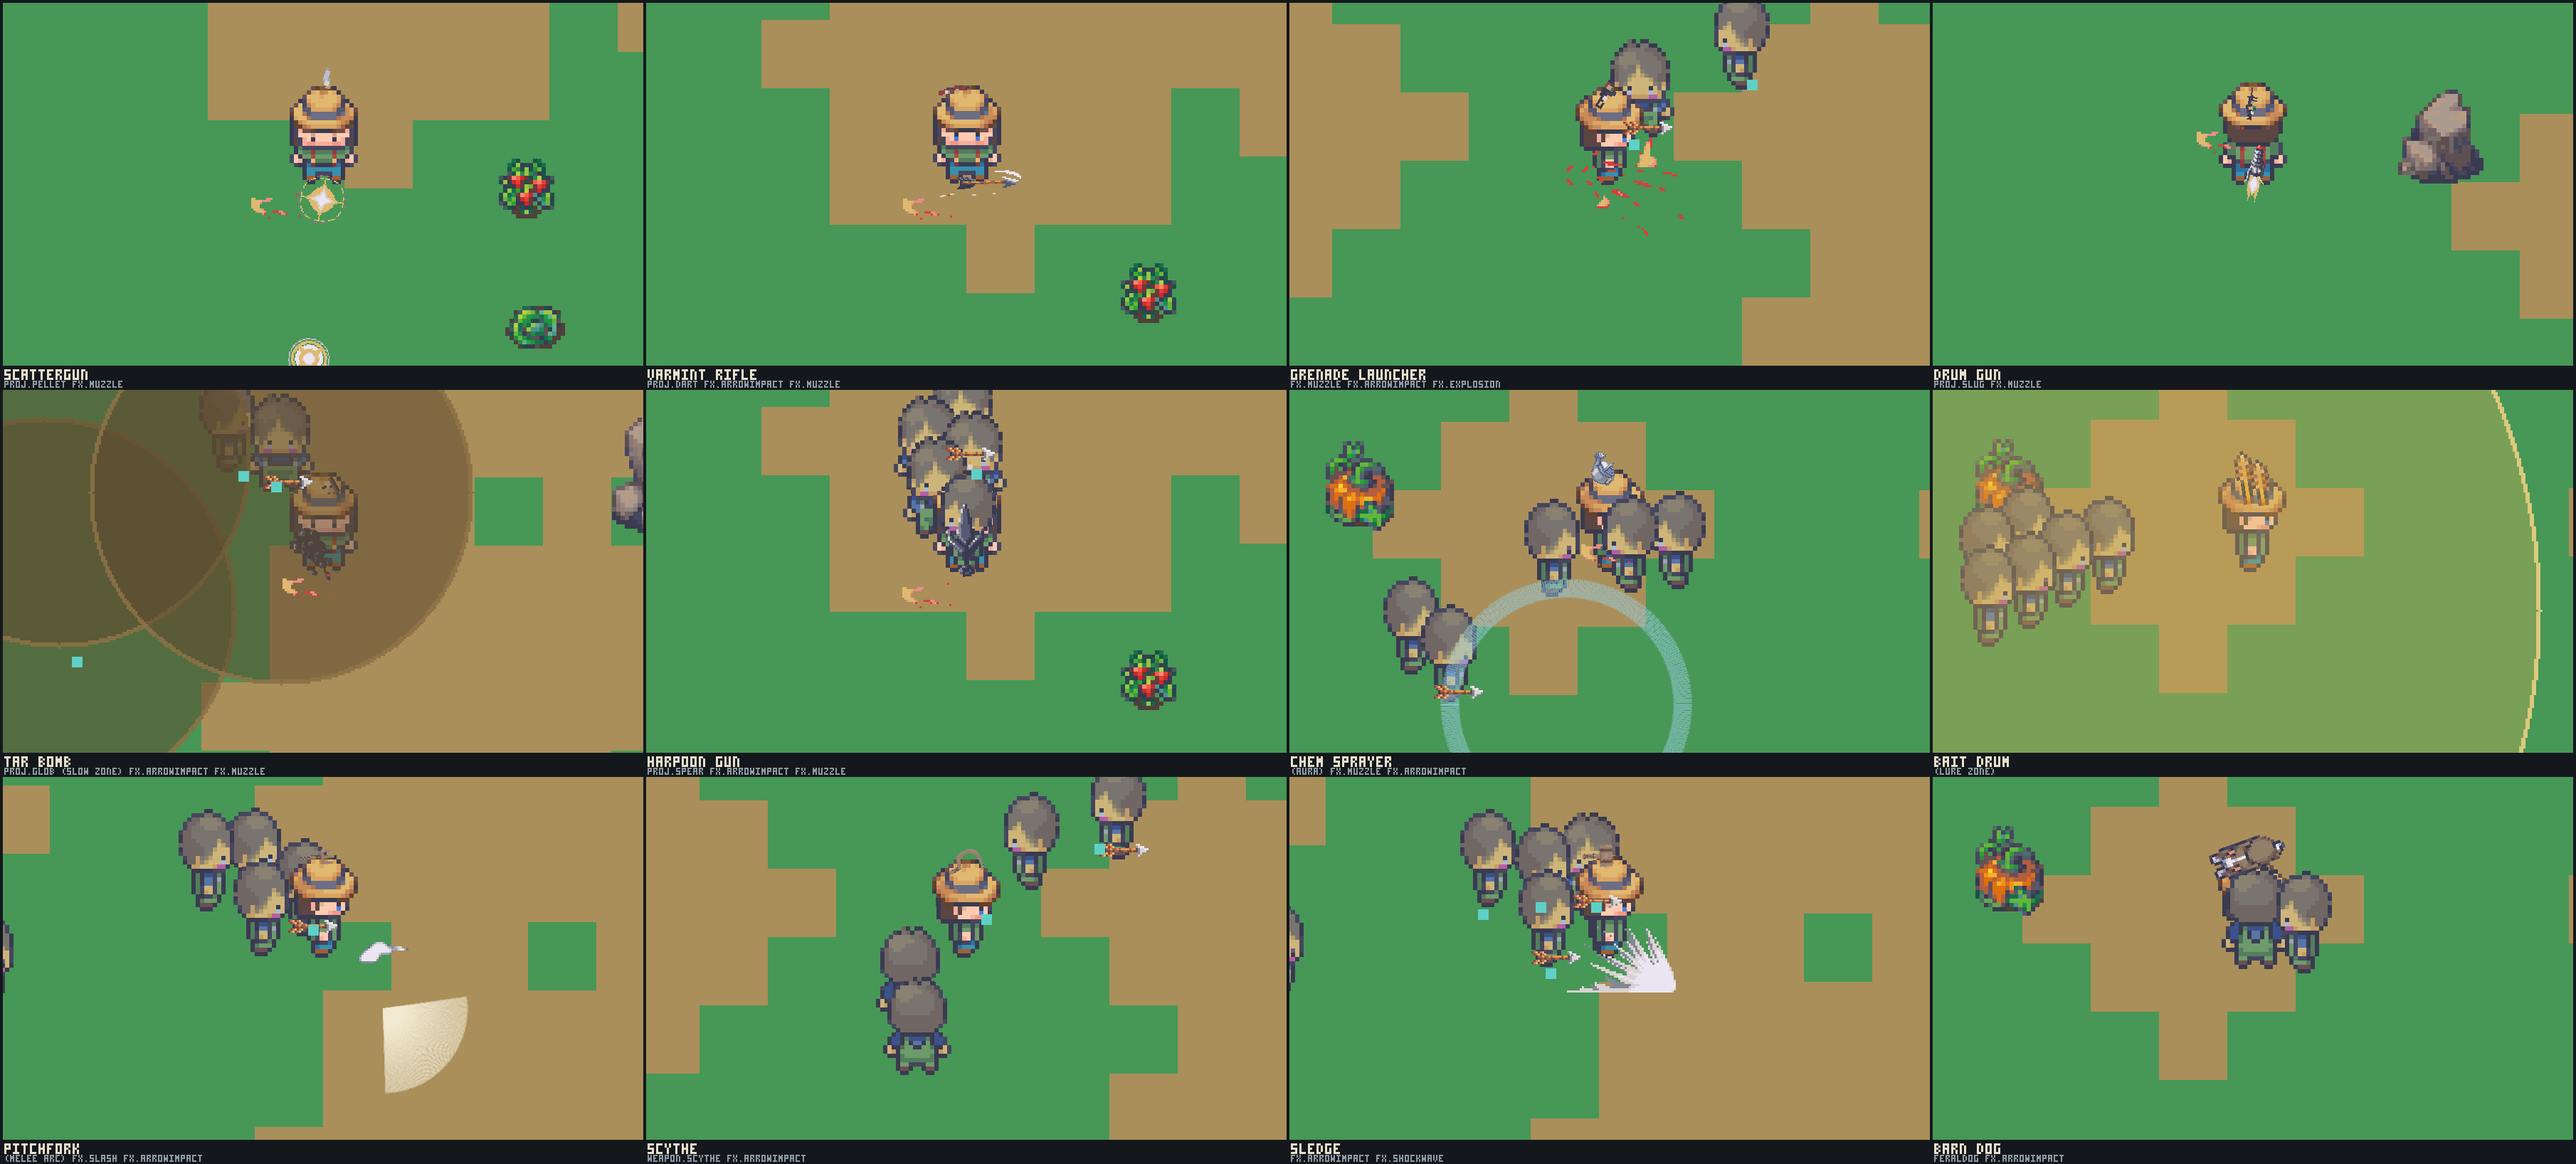
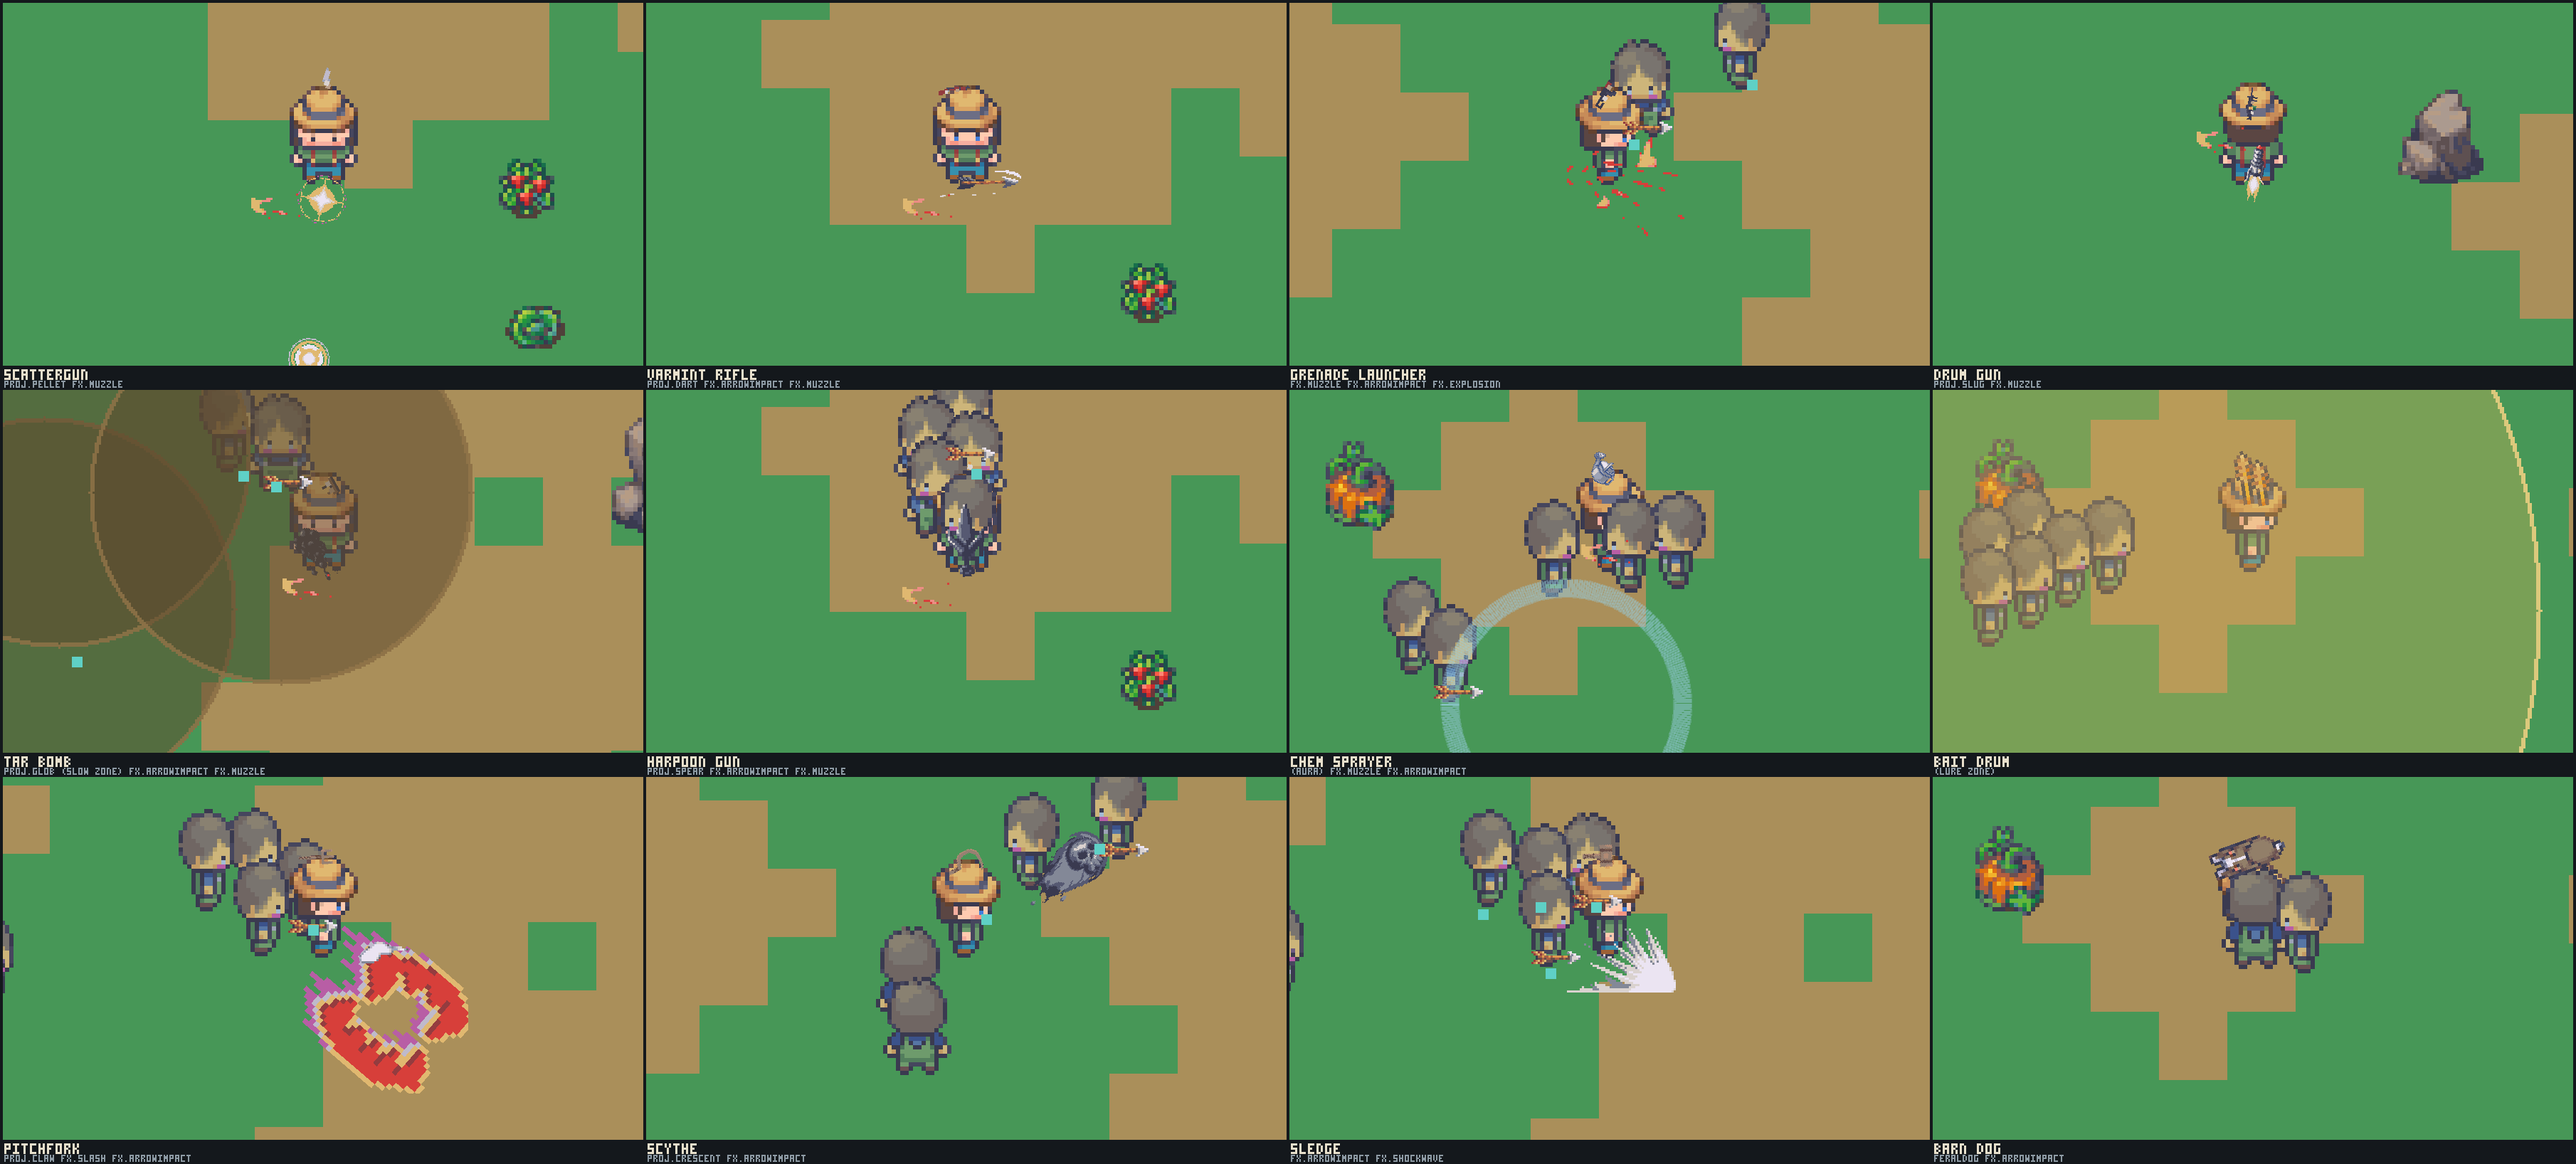
Zoom back out to 560, and give melee real art
ZOOM: 340 was too tight in play. Rendering the same moment at both candidates
made the call easy -- at zoom 2 the pellet burst and dart still read clearly,
because what fixed legibility was packing bigger art, not cropping the field,
and zoom 2 keeps the warning time to see a horde coming. targetWorldHeight is
now 560, landing on ~540 world px tall from 1080p to 4K: the same view a 1080p
dpr-1 screen always had, now independent of monitor and DPI (1620px canvas was
810 before, 540 now). `npm run zoom` renders one moment at several targets at
real pixel density, because zoom cannot be judged from a number.

THE WHITE SQUARE WAS THE SCYTHE. Not a hitbox and not a debug overlay:
projectileFrame fell back to `weapon.<id>`, which does not exist for any weapon
with per-tier art, so the Scythe's orbiting blade missed and drew the
coloured-square fallback -- a large cream rectangle rotating on the spot, for
the whole of M5-M7. The pitchfork's swept arc had the same shape of problem,
drawing as a flat tinted wedge.

Melee now draws real art per weapon, like ranged: a dark crescent for the
scythe's blade, a raking claw for the pitchfork's swing, the shockwave the
sledge already had. New `swingClip` scales to radius*2, so the picture IS the
hit area and +range visibly widens the sweep. The projectile fallback now asks
for the weapon's declared sprite before giving up, so nothing can render as a
bare rectangle again.
[…]

Changed region(s): [[0.0936, 0.7793, 0.1873, 0.9352], [0.4058, 0.717, 0.437, 0.7793]]

diff --git a/tools/zoom-check.ts b/tools/zoom-check.ts
@@ -1,0 +1,87 @@
+/**
+ * The same moment of the same run, rendered at several target world heights.
+ *
+ *   npm run zoom -- [canvasHeight] [heights,comma,separated]
+ *
+ * Zoom is the one setting that cannot be judged from a number. Too tight and
+ * you cannot see what is coming; too wide and every round is a speck, which is
+ * the state the game shipped in. This renders the candidates side by side at
+ * the pixel density of a real screen, so the tradeoff is looked at rather than
+ * argued about.
+ *
+ * Each tile simulates a screen `canvasHeight` pixels tall: zoom is picked the
+ * way the game picks it, and the tile is exactly the view that produces.
+ */
+import { writeFileSync } from 'node:fs'
+import { WorldPainter, fillRect, encodePng } from './draw-world.ts'
+import { blankImage, type Image } from './png.ts'
+import { drawText } from './tinyfont.ts'
+import { World } from '../src/sim/world.ts'
+import { OfferPool, type Offer } from '../src/sim/offers.ts'
+
+const STEP = 1 / 60
+const canvasH = Number(process.argv[2] ?? 1145)
+const targets = (process.argv[3] ?? '340,420,500,580,660').split(',').map(Number)
+const ASPECT = 16 / 9
+
+/** Build one run and hold it, so every tile shows the identical moment. */
+function run(ticks: number): World {
+  const world = new World(4098483203, 'hand')
+  const offers = new OfferPool(world.rng)
+  let pending = 0
+  world.events = { onLevelUp: (n) => { pending += n } }
+  const pick = (l: Offer[]): Offer | undefined => l.find((o) => o.mergesTo !== null) ?? l[0]
+  for (let i = 0; i < ticks; i++) {
+    const t = i * STEP
+    world.player.hp = world.player.stats.maxHp
+    world.step(STEP, Math.cos(t * 0.45), Math.sin(t * 0.45), false)
+    if (pending > 0) {
+      const o = pick(offers.draw(world.player, 4, world.elapsed, world.player.stats.luck, 'levelup'))
+      if (o) {
+        if (o.kind === 'weapon') world.player.addWeapon(o.id, o.tierJump)
+        else { world.player.addItem(o.id, o.boosted); world.refreshSpecialItems() }
+      }
+      pending--
+    }
+  }
+  return world
+}
+
+const world = run(3557)
+
+const tiles: { label: string; img: Image }[] = []
+for (const target of targets) {
+  const zoom = Math.max(2, Math.min(16, Math.round(canvasH / target)))
+  const viewH = Math.round(canvasH / zoom)
+  const viewW = Math.round(viewH * ASPECT)
+  const p = new WorldPainter(viewW, viewH, zoom)
+  p.paint(world)
+  tiles.push({ label: `target ${target}  zoom ${zoom}  view ${viewW}x${viewH}`, img: p.canvas })
+  console.log(`  target ${String(target).padStart(4)} -> zoom ${zoom}, world view ${viewW}x${viewH}`)
+}
+
+const PAD = 6
+const LABEL = 22
+const w = Math.max(...tiles.map((t) => t.img.width)) + PAD * 2
+const h = tiles.reduce((a, t) => a + t.img.height + LABEL + PAD, PAD)
+const sheet = blankImage(w, h)
+fillRect(sheet, 0, 0, w, h, 0x14181c)
+let y = PAD
+for (const t of tiles) {
+  drawText(sheet, t.label, PAD, y, 0xe8e0cc, 3)
+  for (let yy = 0; yy < t.img.height; yy++) {
+    for (let xx = 0; xx < t.img.width; xx++) {
+      const si = (yy * t.img.width + xx) * 4
+      const ty = y + LABEL + yy
+      if (ty >= sheet.height) continue
+      const di = (ty * sheet.width + PAD + xx) * 4
+      sheet.data[di] = t.img.data[si]
+      sheet.data[di + 1] = t.img.data[si + 1]
+      sheet.data[di + 2] = t.img.data[si + 2]
+      sheet.data[di + 3] = 255
+    }
+  }
+  y += t.img.height + LABEL + PAD
+}
+writeFileSync('tools/zoom-check.png', encodePng(sheet))
+console.log(`\ntools/zoom-check.png  ${w}x${h}  (simulating a ${canvasH}px-tall canvas)`)

diff --git a/src/render/renderer.ts b/src/render/renderer.ts
@@ -422,14 +422,18 @@ export class Renderer {
       // while every ranged weapon looked identical. They get a swept arc now,
       // and only the things that are really objects get a sprite.
       const isArea = p.behaviour === 'arcSwing' || p.type === 'aura'
-      if (isArea) {
+      // A swept melee arc draws its weapon's own art, stretched to the swing.
+      // Without a clip it falls back to the tinted wedge, which is a large pale
+      // shape a player reasonably read as an exposed hitbox.
+      const swing = isArea && p.type !== 'aura' ? this.swingFrame(p) : null
+      if (isArea && !swing) {
         this.arcs.push({ x, y, radius: p.radius, angle: p.angle, aura: p.type === 'aura' })
         continue
       }
 
       const it = this.push()
       if (!it) break
-      const frame = this.projectileFrame(p)
+      const frame = swing ?? this.projectileFrame(p)
       it.x = x
       it.y = y
       it.frame = frame ?? null
@@ -443,8 +447,15 @@ export class Renderer {
         it.rotation = w.elapsed * 7 + p.t1
       } else if (p.vx !== 0 || p.vy !== 0) it.rotation = Math.atan2(p.vy, p.vx)
       else it.rotation = p.angle
-      it.scaleX = frame ? PROJECTILE_SCALE * projectileScaleFor(p.weaponId) : 1
-      it.scaleY = it.scaleX
+      if (swing) {
+        // Fill the swing: the art spans the arc's diameter, so a bigger radius
+        // from +range visibly means a bigger sweep.
+        it.scaleX = (p.radius * 2) / Math.max(8, swing.w)
+        it.scaleY = it.scaleX
+      } else {
+        it.scaleX = frame ? PROJECTILE_SCALE * projectileScaleFor(p.weaponId) : 1
+        it.scaleY = it.scaleX
+      }
     }
 
     this.collectWeaponRing()
@@ -664,6 +675,27 @@ export class Renderer {
    * weapon the moment it is packed — which is the whole point. Returns
    * undefined for anything with no art, and the caller draws its square.
    */
+  /**
+   * The art for a swept melee arc, if its weapon declares one.
+   *
+   * Separate from `projectileFrame` because a swing is sized by its radius
+   * rather than by a per-weapon scale — the hit area IS the picture, so the art
+   * has to stretch with the stat.
+   */
+  private swingFrame(
+    p: { weaponId: string; angle: number },
+  ): AtlasFrame | undefined {
+    const atlas = this.atlas
+    if (!atlas) return undefined
+    const clip = (WEAPONS[p.weaponId] as { swingClip?: string } | undefined)?.swingClip
+    if (!clip) return undefined
+    const len = atlas.clipLength(clip, 'play')
+    if (len <= 0) return undefined
+    // Advance through the clip over the arc's short life so the swing moves.
+    const f = (((this.world.elapsed * PROJECTILE_FPS) | 0) + ((p.angle * 4) | 0)) % len
+    return atlas.get(`${clip}.${f}`) ?? atlas.get(`${clip}.0`)
+  }
+
   private projectileFrame(
     p: { weaponId: string; behaviour: string; type: string; x: number },
   ): AtlasFrame | undefined {
@@ -699,7 +731,12 @@ export class Renderer {
         if (frame) return frame
       }
     }
-    return atlas.get(`weapon.${p.weaponId}`)
+    // `weapon.<id>` does not exist for weapons whose art is per-tier, and the
+    // miss fell through to a coloured rectangle — the Scythe's orbiting blade
+    // rendered as a large cream square for the whole of M5-M7. Ask for the
+    // weapon's declared sprite, which is always packed.
+    const def2 = WEAPONS[p.weaponId] as { sprite?: string } | undefined
+    return atlas.get(`weapon.${p.weaponId}`) ?? (def2?.sprite ? atlas.get(def2.sprite) : undefined)
   }
 
   /**

diff --git a/tools/draw-world.ts b/tools/draw-world.ts
@@ -69,10 +69,13 @@ export function fillRect(img: Image, x: number, y: number, w: number, h: number,
  */
 export function projectileSprite(
   world: World,
-  p: { weaponId: string; behaviour: string; type?: string; x: number },
+  p: { weaponId: string; behaviour: string; type?: string; x: number; angle?: number },
 ): { key: string; frame: Frame | undefined } {
-  if (p.behaviour === 'arcSwing') return { key: '(melee arc)', frame: undefined }
   if (p.type === 'aura') return { key: '(aura)', frame: undefined }
+  if (p.behaviour === 'arcSwing') {
+    const sw = swingSprite(world, p as { weaponId: string; angle: number })
+    return sw ?? { key: '(melee arc)', frame: undefined }
+  }
   // The barn dog is a real animal, not an icon.
   if (p.behaviour === 'minionHunt') {
     return { key: 'feralDog', frame: frames['feralDog.idle.down.0'] }
@@ -95,7 +98,24 @@ export function projectileSprite(
     }
   }
   const key = `weapon.${p.weaponId}`
-  return { key, frame: frames[key] }
+  if (frames[key]) return { key, frame: frames[key] }
+  // Weapons with per-tier art have no `weapon.<id>`; the miss used to fall
+  // through to a coloured rectangle.
+  const sprite = typeof def?.sprite === 'string' ? def.sprite : null
+  return { key: sprite ?? key, frame: sprite ? frames[sprite] : undefined }
+}
+
+/** The art for a swept melee arc, if its weapon declares one. */
+export function swingSprite(
+  world: World, p: { weaponId: string; angle: number },
+): { key: string; frame: Frame } | null {
+  const clip = (WEAPONS[p.weaponId] as unknown as { swingClip?: string } | undefined)?.swingClip
+  if (!clip) return null
+  const len = clipLengths[clip]?.play ?? 0
+  if (len <= 0) return null
+  const f = (((world.elapsed * CLIP_FPS) | 0) + ((p.angle * 4) | 0)) % len
+  const frame = frames[`${clip}.${f}`] ?? frames[`${clip}.0`]
+  return frame ? { key: clip, frame } : null
 }
 
 /**
@@ -327,6 +347,8 @@ export class WorldPainter {
       const p = world.projectiles.items[i]
       const aura = p.type === 'aura'
       if (p.behaviour !== 'arcSwing' && !aura) continue
+      // A swing with its own art is drawn as a sprite below, not as a wedge.
+      if (!aura && swingSprite(world, p)) continue
       const half = 0.85
       for (let r = 0; r <= p.radius; r += 0.5) {
         const inner = aura ? p.radius * 0.86 : 0
@@ -341,11 +363,15 @@ export class WorldPainter {
 
     for (let i = 0; i < world.projectiles.live; i++) {
       const p = world.projectiles.items[i]
-      if (p.behaviour === 'arcSwing' || p.type === 'aura') continue // areas, not objects
-      const f = this.projectileFrame(world, p)
+      const swing = p.type !== 'aura' ? swingSprite(world, p) : null
+      if ((p.behaviour === 'arcSwing' || p.type === 'aura') && !swing) continue
+      const f = swing?.frame ?? this.projectileFrame(world, p)
       if (!f) continue
       const rot = p.vx !== 0 || p.vy !== 0 ? Math.atan2(p.vy, p.vx) : p.angle
-      this.drawFrameT(f, p.x, p.y, rot, PROJECTILE_SCALE * projectileScaleFor(p.weaponId))
+      const scale = swing
+        ? (p.radius * 2) / Math.max(8, swing.frame.w)
+        : PROJECTILE_SCALE * projectileScaleFor(p.weaponId)
+      this.drawFrameT(f, p.x, p.y, rot, scale)
     }
 
     this.weaponRing(world)

diff --git a/tests/content.test.ts b/tests/content.test.ts
@@ -97,8 +97,12 @@ describe('camera zoom', () => {
     // canvas heights for 1366/1080/1440/2160 at plausible pixel ratios
     for (const h of [768, 1080, 1350, 1620, 1440, 2160, 2880, 4320]) {
       const view = h / zoomFor(h)
-      expect(view, `canvas ${h}px -> ${view.toFixed(0)} world px`).toBeGreaterThan(target * 0.7)
-      expect(view, `canvas ${h}px -> ${view.toFixed(0)} world px`).toBeLessThan(target * 1.35)
+      // Integer zoom quantises this, and small screens bottom out at minZoom
+      // and simply show less, so the band is generous. What it is really
+      // guarding is that DPI cannot make the view balloon the way it used to:
+      // 1620px canvas showed 810 world px before and 540 now.
+      expect(view, `canvas ${h}px -> ${view.toFixed(0)} world px`).toBeGreaterThan(target * 0.6)
+      expect(view, `canvas ${h}px -> ${view.toFixed(0)} world px`).toBeLessThan(target * 1.25)
     }
   })
 

diff --git a/NOTES.md b/NOTES.md
@@ -1039,3 +1039,48 @@ are now packed in all three element colours and picked via `World.elementalFx`.
 Renderer and headless painter both fall back to the base clip if a variant is
 missing, because drawing nothing is a worse failure than drawing the wrong
 colour.
+
+## Zoom, corrected: 560, not 340
+
+The 340 target was too tight in play — "the zoom is way too much, it was
+fine/ideal before". Rendering the same moment at both candidates with
+`npm run zoom` made the call easy: at zoom 2 the pellet burst and the dart still
+read clearly, because what fixed legibility was **packing bigger art, not
+cropping the field**, and zoom 2 keeps the warning time to see a horde coming.
+
+`targetWorldHeight` is now **560**, which lands on ~540 world pixels tall on
+every screen from 1080p to 4K. That is the same view a 1080p dpr-1 screen always
+had — the framing that was already right, now independent of monitor and DPI. On
+a 1620px canvas it is 540 where it used to be 810.
+
+`npm run zoom -- [canvasHeight] [targets]` renders one moment at several targets
+at real pixel density. Zoom is the one setting that cannot be judged from a
+number.
+
+## The white square was the Scythe
+
+Reported as "the melee hitbox being this white square". It was not a hitbox and
+not a debug overlay: `projectileFrame` fell back to `atlas.get('weapon.<id>')`,
+which does not exist for any weapon whose art is per-tier. The Scythe's orbiting
+blade therefore missed, fell through to the coloured-square fallback, and drew a
+large cream rectangle rotating on the spot for the whole of M5-M7. The pitchfork
+had a related problem: a swept arc with no art drew as a flat tinted wedge,
+which is also a large pale shape.
+
+Melee now gets real art, per weapon, the way ranged does:
+
+| weapon | draws |
+|---|---|
+| Scythe (orbit) | a dark crescent blade, spinning |
+| Pitchfork (swing) | a raking claw, stretched to the swing radius |
+| Sledge (slam) | the shockwave it already had |
+
+`swingClip` is the new field for the swept kind — scaled to `radius * 2` rather
+than by a per-weapon multiplier, so the picture IS the hit area and +range
+visibly widens the sweep. And the projectile fallback now asks for the weapon's
+declared `sprite` before giving up, so no weapon can render as a bare rectangle
+again.
+
+Note for whoever picks this up: `proj.claw` was red first and the LimeZu palette
+conform fringed it magenta. Orange survives. Saturated effect colours are the
+ones that lose in the conform — the helix beam did the same thing.
